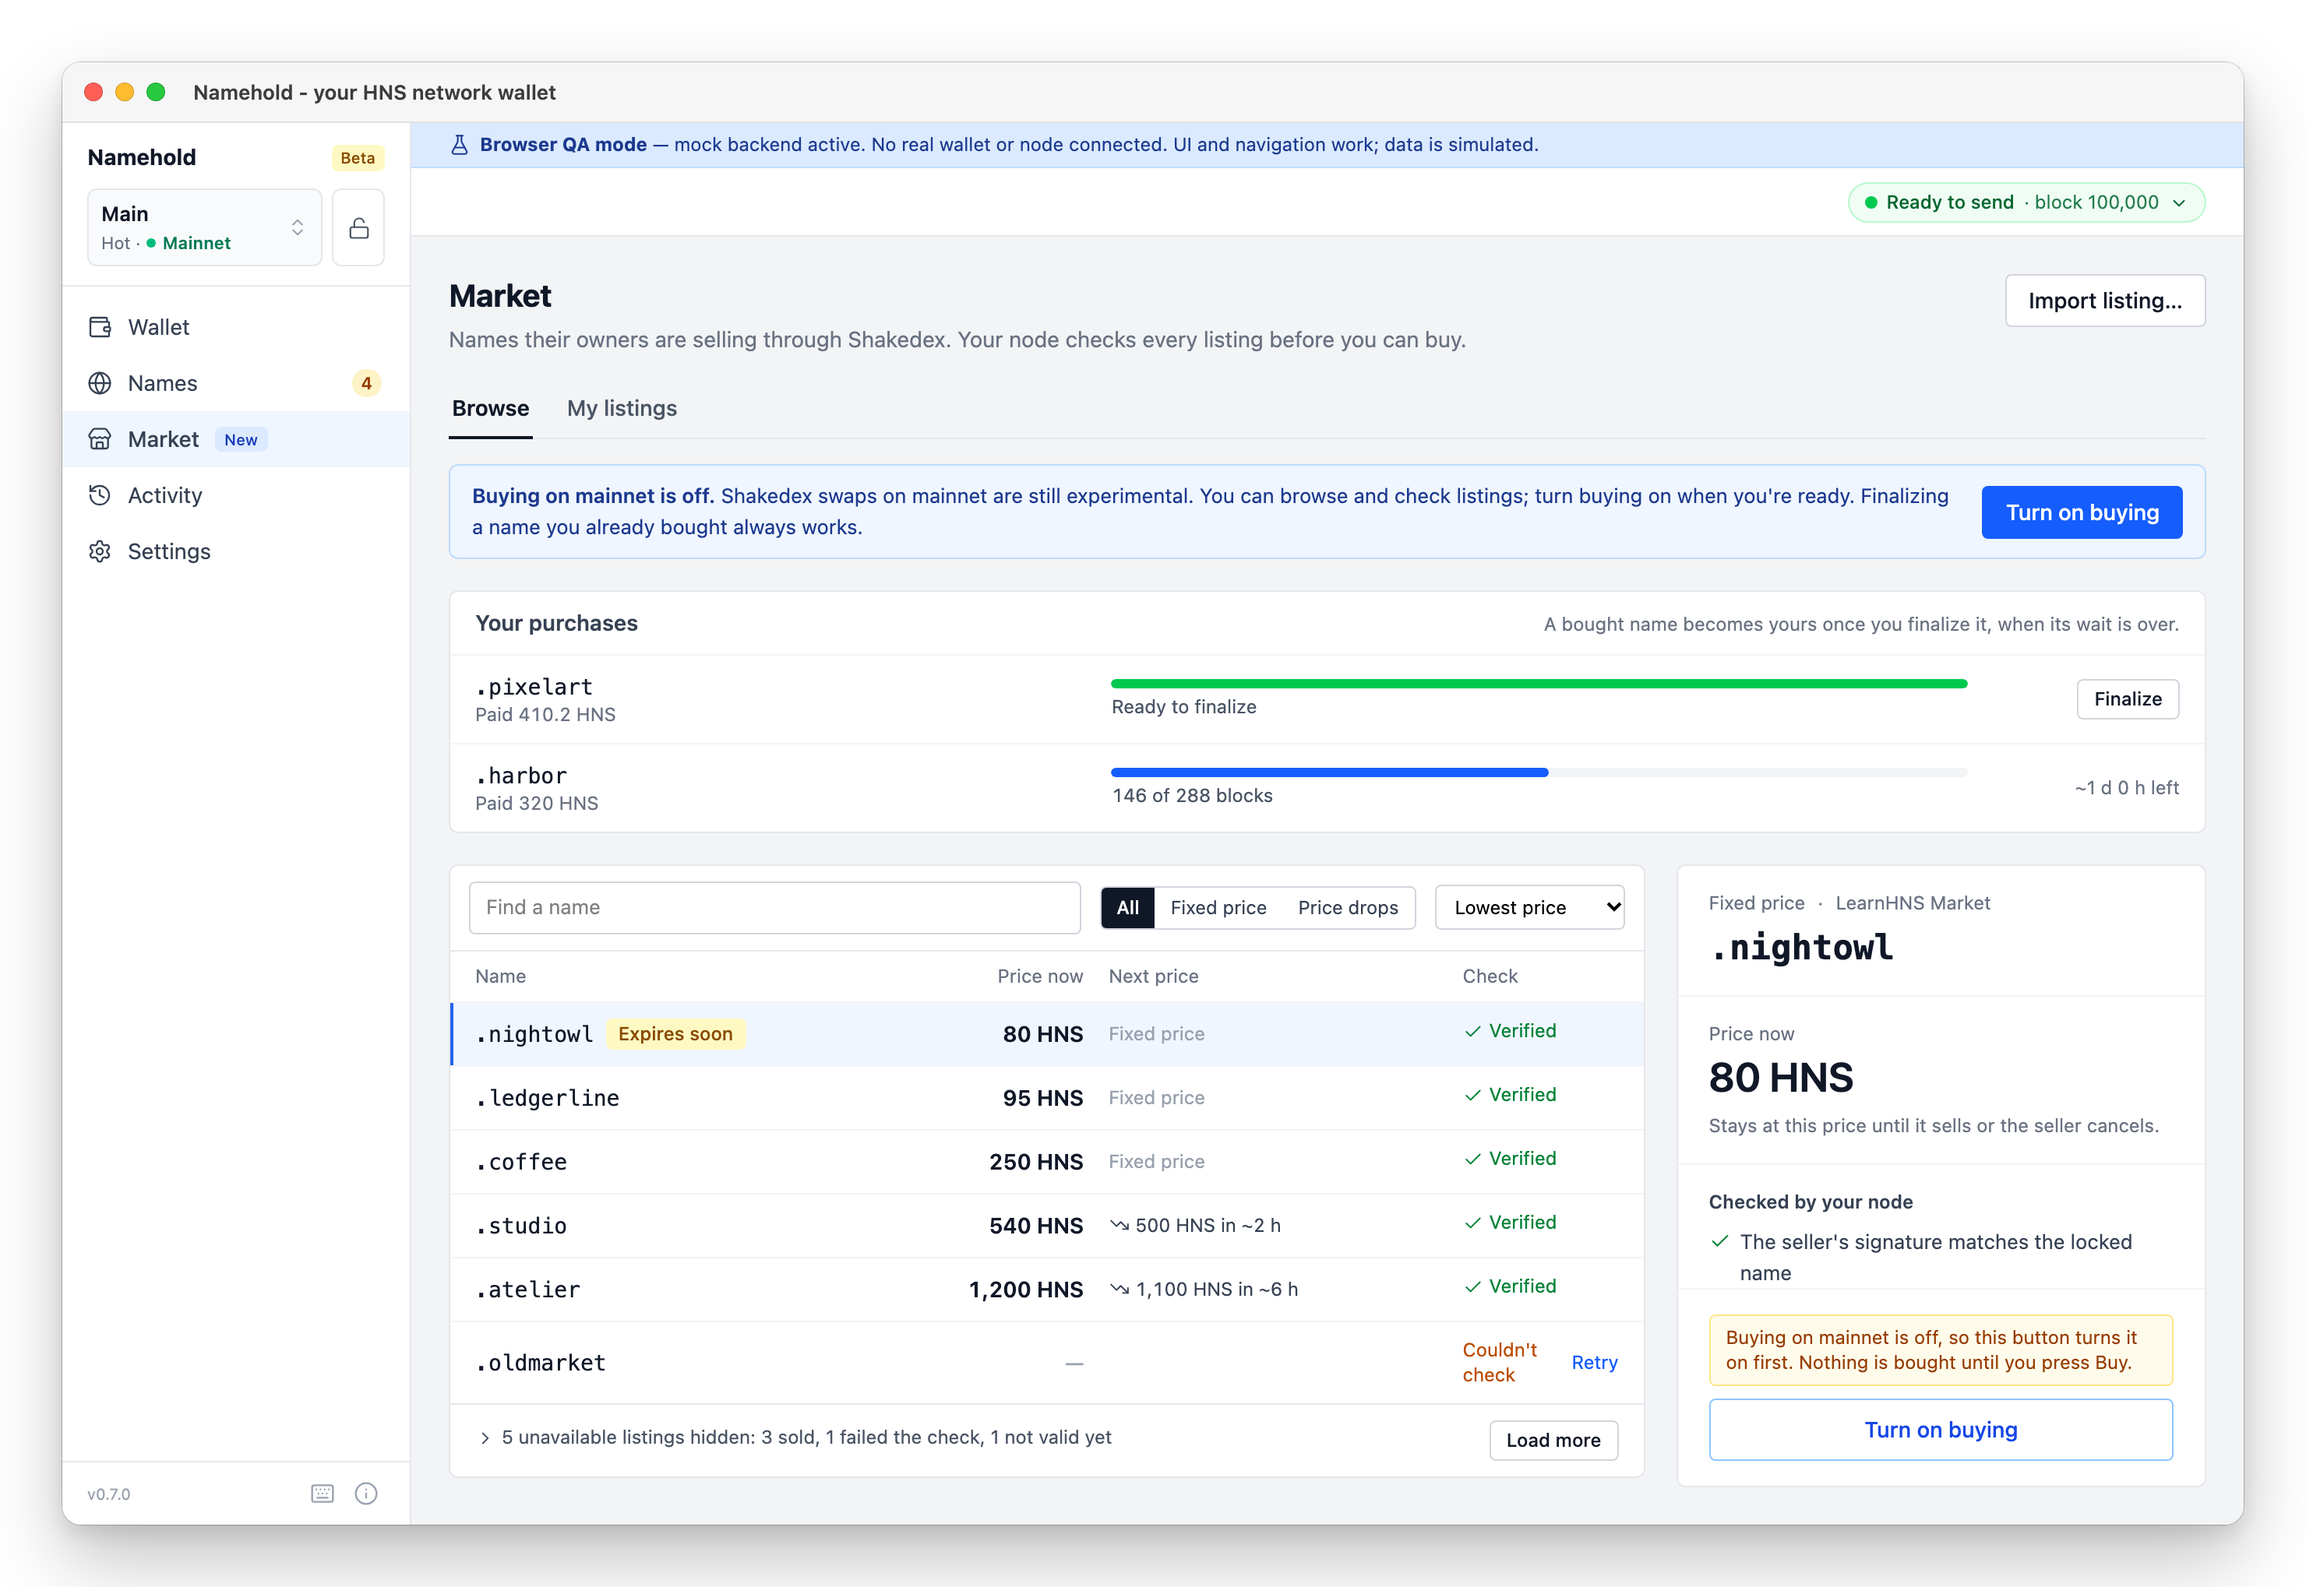
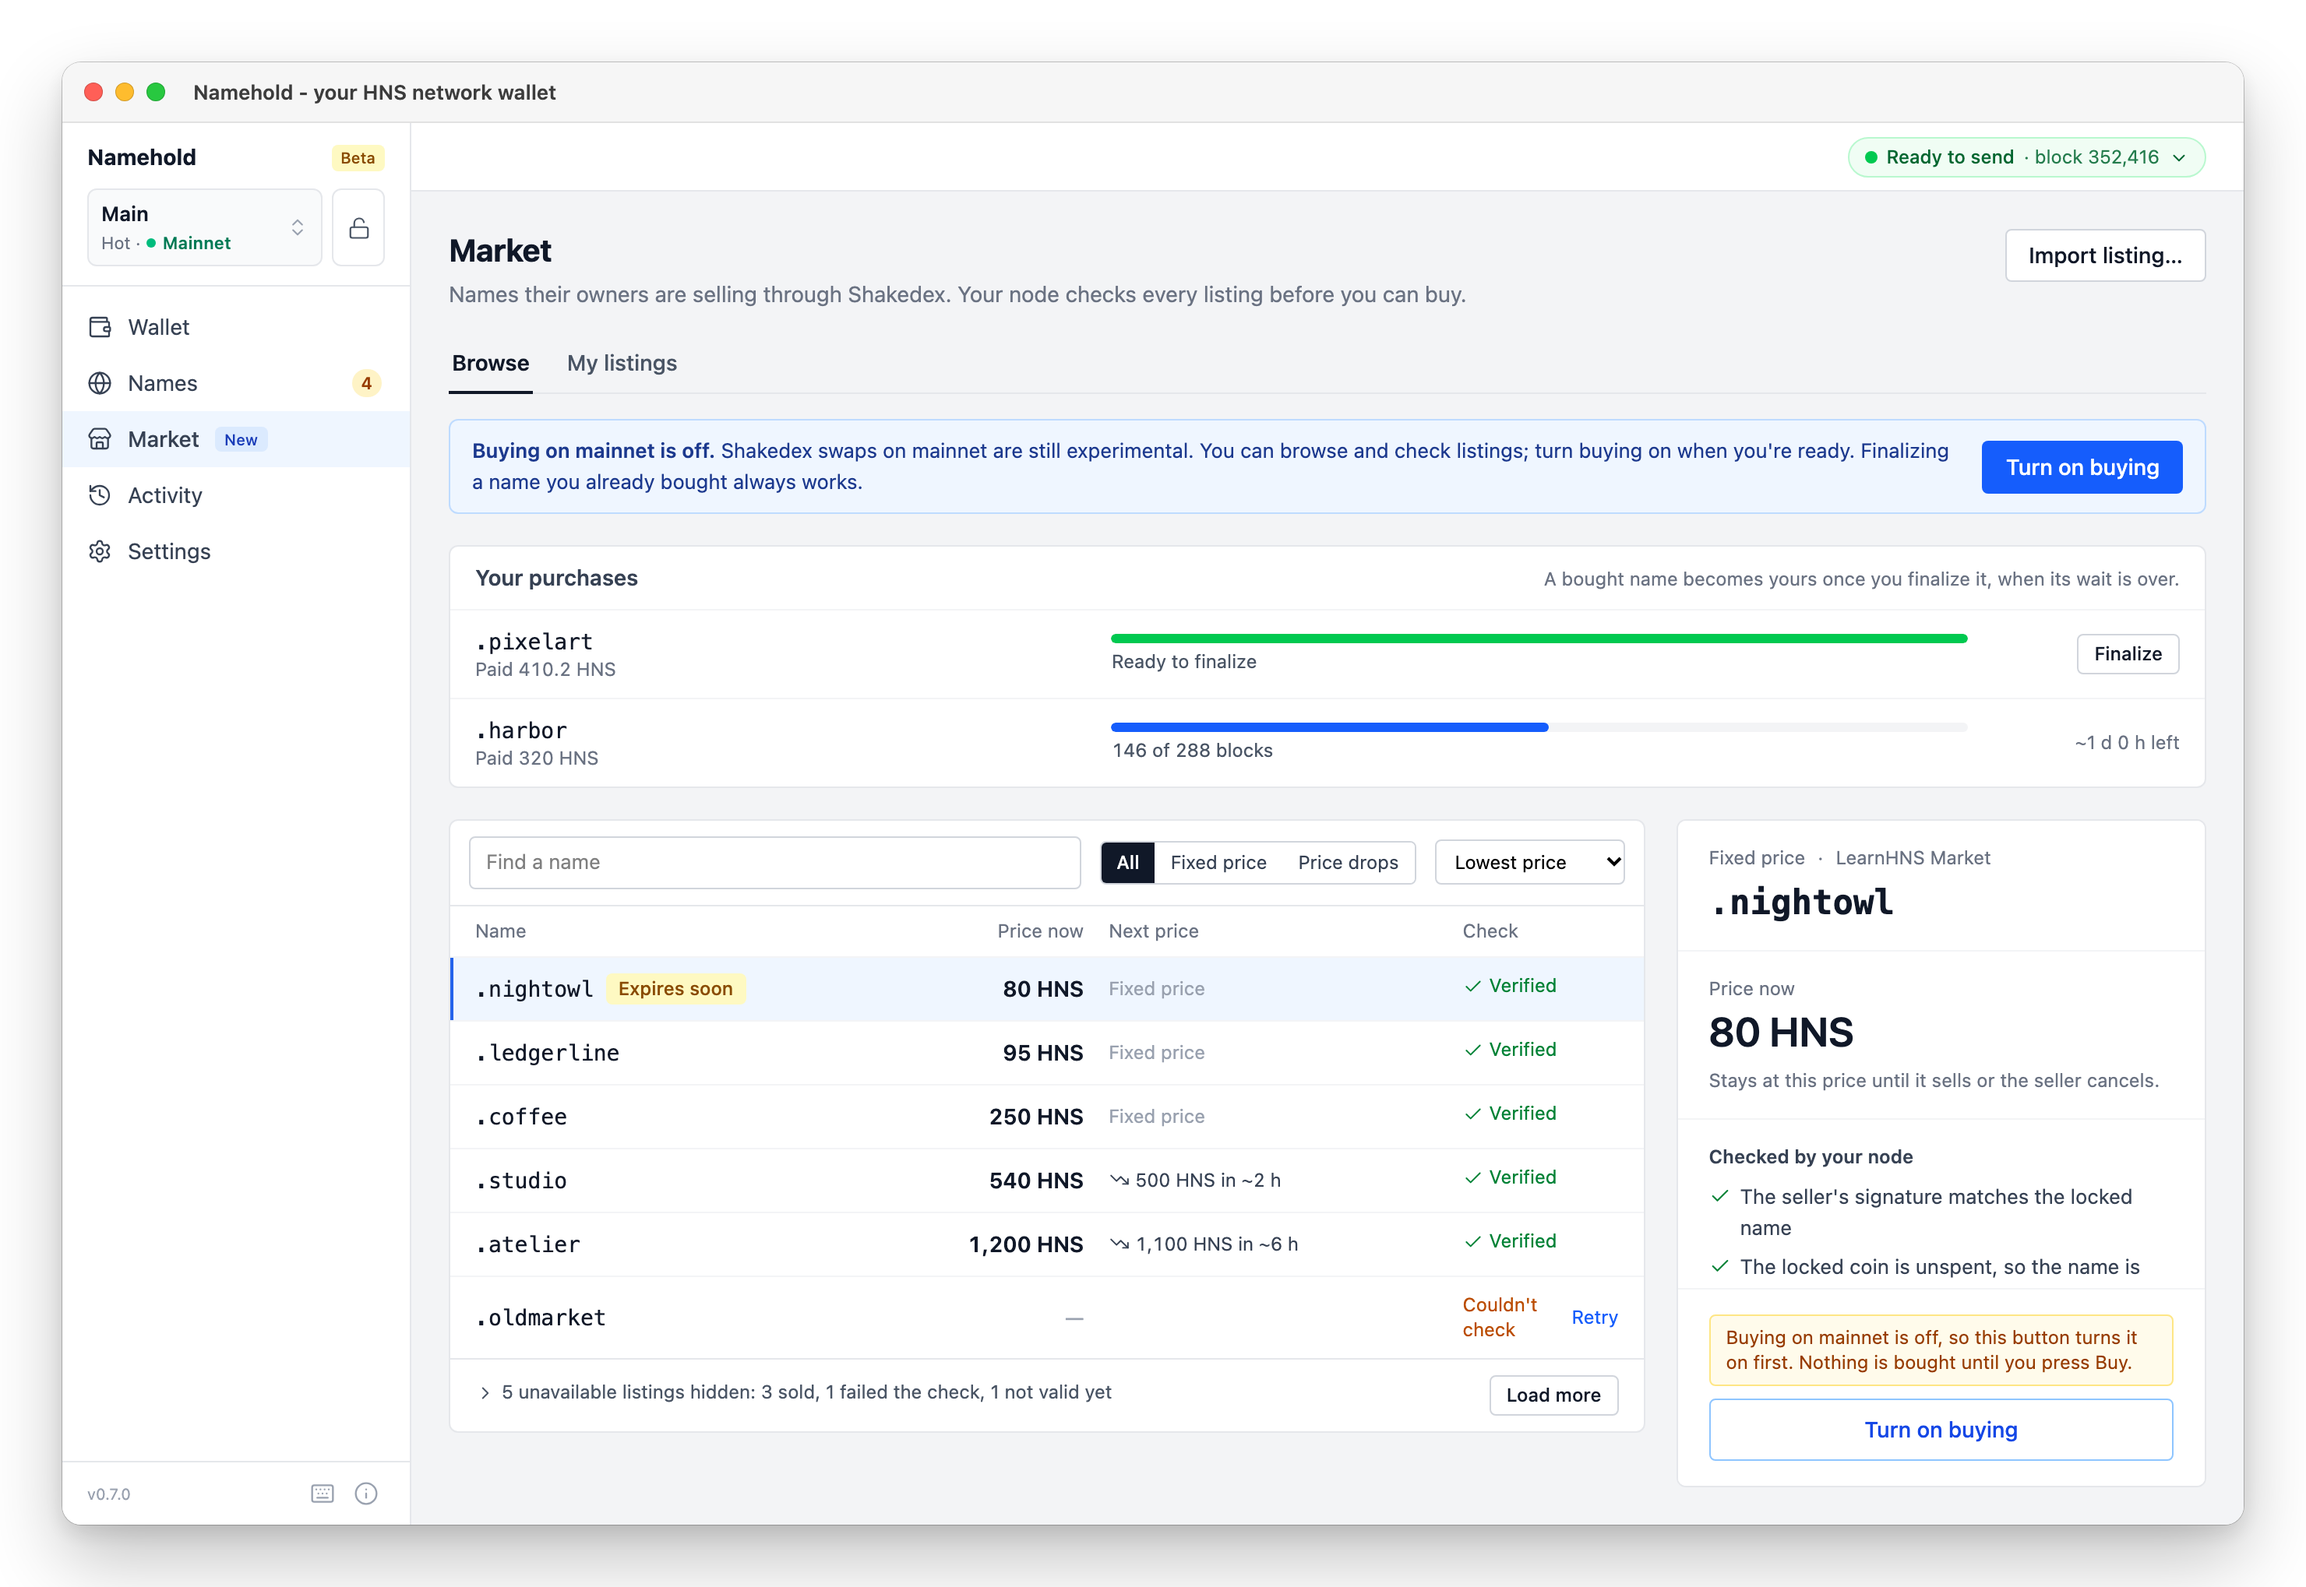
docs(release): the changelog's missing changes, and screenshots of every redesigned page
Reading every PR since 0.6.1 found what the changelog left out: the Receive dialog, row clicks and header actions on Names, a name's page staying after a broadcast, History's details, Re-sync asking first, and the removed pages with their hotkeys.

The screenshots add Activity and Settings, drop the browser mock's banner, and answer the history and node height from the showcase. Atlas no longer shows as listed, so its page has a working Renew.

diff --git a/screenshots/showcase/world.ts b/screenshots/showcase/world.ts
@@ -27,6 +27,7 @@ import type {
   WalletBalances,
   WalletProfileSummary,
 } from "../../src/types";
+import type { ActionRow } from "../../src/lib/zod";
 import type { NamebaseHistoryRow, NamebaseHistorySummary } from "../../src/queries/namebase";
 import LISTING_ACTIONS from "../../src/test/fixtures/listing-actions.json";
 
@@ -414,7 +415,7 @@ const LISTINGS: Listing[] = [
     published: true,
   },
   {
-    name: "atlas",
+    name: "lighthouse",
     state: "listed",
     mode: "reverseAuction",
     prices: [900, 825, 750, 675, 600],
@@ -633,4 +634,41 @@ export function records(name: string): NameResource {
     ],
     ttl: 3600,
   };
+}
+
+/** Activity's on-chain history: the newest first, a few of each kind. */
+export function history(): ActionRow[] {
+  const at = (blocksAgo: number) => HEIGHT - blocksAgo;
+  const row = (
+    txid: string,
+    action: string,
+    name: string | null,
+    value: number,
+    direction: string,
+    blocksAgo: number,
+    counterparty: string | null = null,
+  ): ActionRow => ({
+    txid: txid.repeat(64).slice(0, 64),
+    action,
+    name,
+    nameHash: null,
+    valueDoos: hns(value),
+    nameValueDoos: null,
+    direction,
+    height: at(blocksAgo),
+    // 2026-10-23 12:00 UTC, the page clock, less ten minutes a block.
+    time: 1_792_756_800 - blocksAgo * 600,
+    confirmed: true,
+    counterparty,
+  });
+  return [
+    row("a1", "renew", "atlas", 0, "out", 40),
+    row("b2", "reveal", "saltmarsh", 60, "out", 310),
+    row("c3", "bid", "saltmarsh", 42, "out", 1_020),
+    row("d4", "receive", null, 1_500, "in", 1_480, "hs1qshowcasecounterparty"),
+    row("e5", "register", "lighthouse", 210, "out", 2_260),
+    row("f6", "send", null, 320.5, "out", 3_100, "hs1qshowcasecounterparty"),
+    row("a7", "redeem", "emberly", 12, "in", 3_940),
+    row("b8", "update", "atlas", 0, "out", 4_700),
+  ];
 }

diff --git a/screenshots/showcase/index.ts b/screenshots/showcase/index.ts
@@ -19,6 +19,30 @@ globalThis.__webqa_overrides = {
   get_wallet_balances: world.balances(),
   read_balance: world.legacyBalance(),
   read_names: world.names(),
+  read_action_history: world.history(),
+  // The mock's chain sits at 100,000; the showcase's names count from this tip.
+  node_status: {
+    binary: "hsd",
+    binary_found: true,
+    version: "8.0.0",
+    data_dir: "",
+    network: "mainnet",
+    process_alive: true,
+    ownership: "own",
+    starting: false,
+    connected: true,
+    synced: true,
+    height: world.HEIGHT,
+    verification_progress: 1,
+    headers: world.HEIGHT,
+    last_error: null,
+    index_mismatch: false,
+    read_source: "local",
+    running: true,
+    tip: "0".repeat(64),
+    peers: 8,
+    error: null,
+  },
   // The name page reads one name; the showcase's owned names answer it, so
   // Details shows their heights and values instead of "Nothing on-chain yet."
   read_name_info: (args?: Record<string, unknown>) =>

diff --git a/screenshots/shoot.ts b/screenshots/shoot.ts
@@ -52,6 +52,8 @@ async function main() {
       await page.addInitScript(showcase);
       const unmocked = watchUnmocked(page);
       await page.goto(BASE + scene.route);
+      // The browser mock's own notice: true of this harness, not of the app.
+      await page.addStyleTag({ content: '[data-testid="web-qa-banner"]{display:none}' });
       await settle(page);
       await scene.prepare?.(page);
       await settle(page);

diff --git a/screenshots/scenes.ts b/screenshots/scenes.ts
@@ -24,4 +24,6 @@ export const SCENES: Scene[] = [
       await page.getByRole("tab", { name: "My listings" }).click();
     },
   },
+  { file: "activity", route: "/activity" },
+  { file: "settings", route: "/settings" },
 ];

diff --git a/CHANGELOG.md b/CHANGELOG.md
@@ -90,20 +90,24 @@
 - **Renewal reminders come as one notification per wallet.** Names coming due together used to send one notification each; now one says how many, which comes first and names the first three. A single name reads as before.
 
 **A redesigned app**
-- **Wallet opens on your balance.** Send and Receive sit right under it, receiving moves into a dialog, and the reveal, won, lost and expiring banners become one **Needs you** list sorted by urgency.
-- **One Names page.** Owned names, auctions and the watchlist were three pages; `/names` holds them in one table, one row per name, with a lookup and the chips All, Needs you, In auction, Owned and Watching. Sort by a column header, narrow with the Filters popover (expiry, length, kind of name, tags), and everything stays in the URL. The counts equal the rows they open. Purchases are listed with your names and open the Market.
-- **Every name has its own page,** at `/names/<name>`, in place of the name dialog: one status line with approximate dates, a timeline, one main action, and tabs for Overview, DNS records, Transfer & sell, and Sign message. Details shows short amounts with the exact value in a tooltip, a high bid only once it is known, and "nothing — no second bid" instead of a price of 0.
-- **Activity is three lists:** To finish (drafts to sign, send, retry or discard), Waiting for a block (with Speed up on the row, and how long ago it was sent) and History. Search and filters apply to all three.
-- **A simpler frame.** A wallet switcher and the signer lock in the sidebar, five navigation items with counts, and one readiness pill that says whether this wallet can send, with the node's controls in its popover. Testnet, regtest and simnet each have their own colour and a strip across the top, so a test wallet no longer looks like mainnet.
+- **Wallet opens on your balance.** Send and Receive sit right under it, and the reveal, won, lost and expiring banners become one **Needs you** list sorted by urgency. Receiving moves into a dialog with the QR code at once, Copy address, New address, all addresses and the xpub. Your names shows the five most urgent, Recent activity the five newest, and `Q` opens Receive.
+- **One Names page.** Owned names, auctions and the watchlist were three pages; `/names` holds them in one table, one row per name, with a lookup and the chips All, Needs you, In auction, Owned and Watching. Sort by a column header, narrow with the Filters popover (expiry, length, kind of name, tags), and everything stays in the URL. The counts equal the rows they open. A click on a row opens the name. Purchases are listed with your names and open the Market. Batch bid, Import CSV and Export CSV sit in the page's header, and a watch-only wallet sees no checkboxes.
+- **Every name has its own page,** at `/names/<name>`, in place of the name dialog: one status line with approximate dates, a timeline, one main action, and tabs for Overview, DNS records, Transfer & sell, and Sign message. Details shows short amounts with the exact value in a tooltip, a high bid only once it is known, and "nothing — no second bid" instead of a price of 0. The page stays open after a broadcast, and an unsigned draft is discarded when you leave it.
+- **Activity is three lists:** To finish (drafts to sign, send, retry or discard), Waiting for a block (with Speed up on the row, and how long ago it was sent) and History. Search and filters apply to all three. A click on a History row shows its date, exact amount, fee, block and txid. Amounts in lists are short, with the exact value on hover, and spends are no longer red.
+- **A simpler frame.** A wallet switcher and the signer lock in the sidebar, five navigation items with counts, and one readiness pill that says whether this wallet can send, with the node's controls in its popover. Testnet, regtest and simnet each have their own colour and a strip across the top, so a test wallet no longer looks like mainnet. Re-sync asks first wherever it is offered, Manage wallets shows each wallet's id with Copy, and icons replace emoji and text glyphs across the app.
 - **Settings has six sections** (Connections, Node & tray, Notifications, Backup & import, Updates, Advanced), kept in the URL. When Save is blocked, the bar names the error, a red dot marks its section and Show opens it. Importing your Namebase history moves here from the sidebar, and pages use the full width of the window.
 - Unlock is a secondary button with an icon, Sync explains itself in a tooltip, and a name still opening reads "Opening" everywhere.
 
 **On the Names page**
 - **The Names batch bar shows its actions only once a name is selected.** With nothing selected it keeps just "Select all N transferable" and the progress of a running action.
 - **Transfer Selected asks for the recipient after it is pressed.** It is enabled as soon as the selected names can move and opens a dialog for the address (checked against the wallet's network) with Review, instead of waiting, greyed out, for an address typed in a field before it.
-- **README screenshots show the redesigned app.** Wallet, Names, a name's page (with the ICANN flag) and the Market replace the Auctions and Namebase-history images, whose screens are gone; `just screenshots` regenerates them.
+
+### Removed
+- **The Auctions, Watchlist and Move from Namebase pages and the name dialog.** Their work moved to Names, a name's page and Settings › Backup & import; old links go to the new place. The digit hotkeys now run 1 to 5, `/`, `B` and `J`/`K`/`Enter` act on the Names page, and the `A` and `E` watchlist keys are gone.
 
 ### CI / tooling
+- README screenshots show the redesigned app: Wallet, Names, a name's page, the Market, My listings, Activity and Settings, with the showcase wallet's own history and node. `just screenshots` regenerates them.
+- Actions updated by Dependabot, and the tests of testnet's real RPC port run one at a time under nextest.
 - Take `async-executor` 1.14.1, since 1.14.0 was yanked. RUSTSEC-2026-0429 (`zip` aborts the process on a crafted symlink entry) is suppressed with the other `zip` advisories: `tauri-plugin-updater` pins `zip` 4.6.1, and extraction runs only on Windows, on a bundle whose signature is already verified. See `SECURITY.md`.
 - A pull request's type label comes from the commit type its title starts with.
 

diff --git a/README.md b/README.md
@@ -36,6 +36,14 @@ Built with Tauri v2, React + TypeScript, Rust, and SQLite.
     <td align="center">Market (Shakedex)</td>
     <td align="center">Selling your names</td>
   </tr>
+  <tr>
+    <td width="50%"><a href="docs/assets/activity.png"><img src="docs/assets/activity.png" alt="Activity: what is left to finish, what waits for a block, and the history of this wallet" /></a></td>
+    <td width="50%"><a href="docs/assets/settings.png"><img src="docs/assets/settings.png" alt="Settings: connections, node and tray, notifications, backup and import, updates and advanced" /></a></td>
+  </tr>
+  <tr>
+    <td align="center">Activity</td>
+    <td align="center">Settings</td>
+  </tr>
 </table>
 
 The screenshots are generated from the app with showcase data: see [screenshots/README.md](screenshots/README.md).
